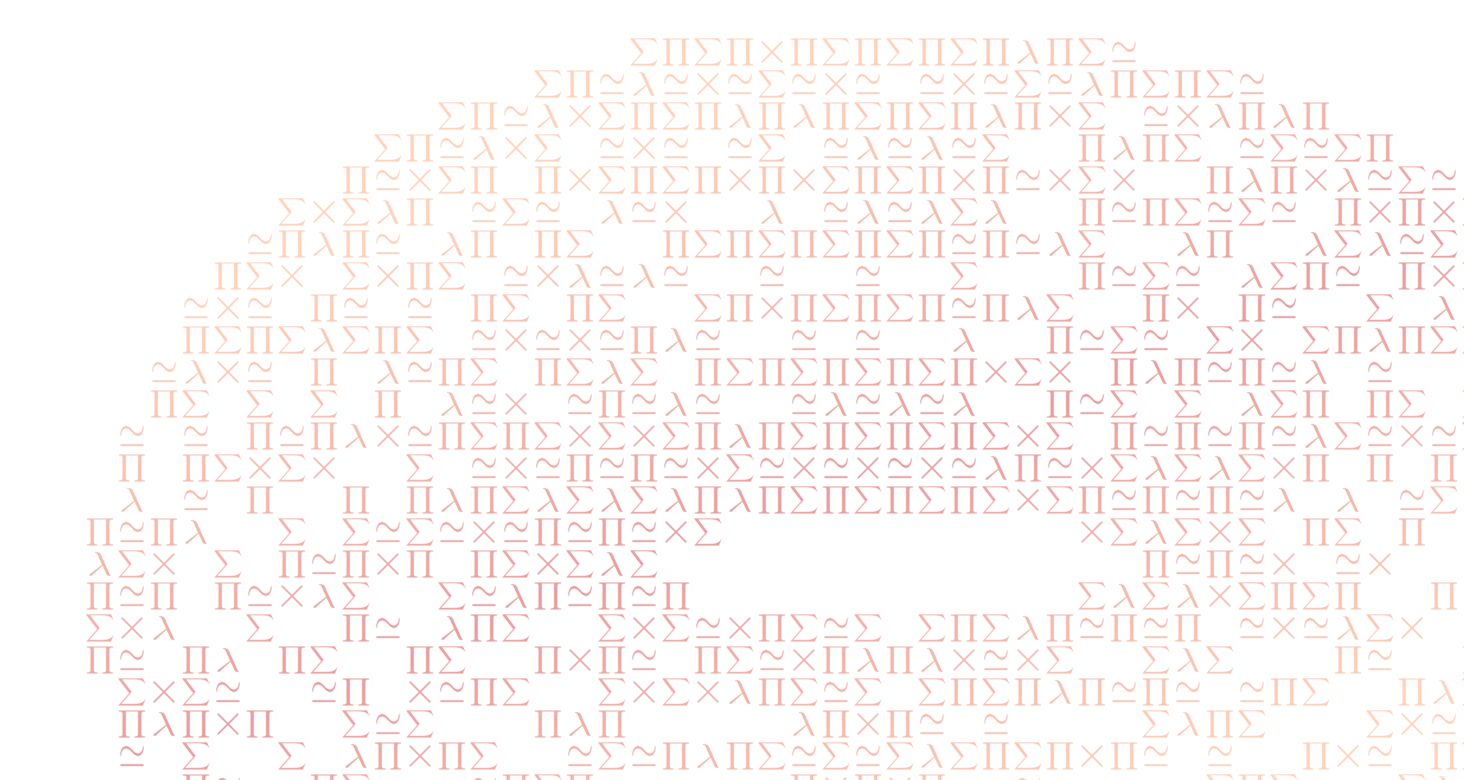
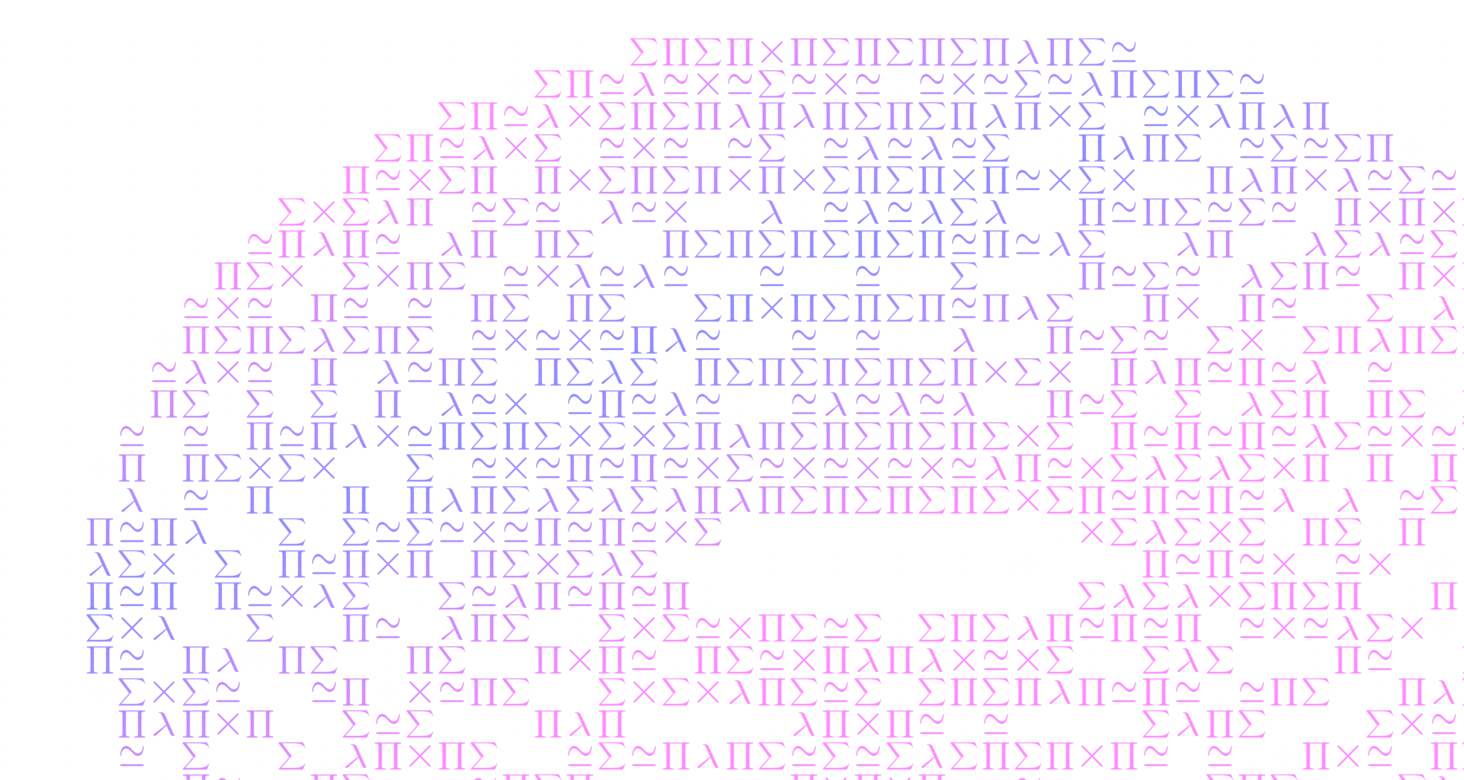
Blue cover with magenta torus

diff --git a/opt-color.tex b/opt-color.tex
@@ -1,7 +1,7 @@
 % Options for color book
 
 % BACKGROUND OF COVER PAGE
-\def\OPTcovercolor{0,0,0.125,0}
+\def\OPTcovercolor{0.125,0,0,0} % CMYK
 
 % LINK COLORS
 \def\OPTlinkcolor{0,0.45,0}   % RGB components for clickable links
